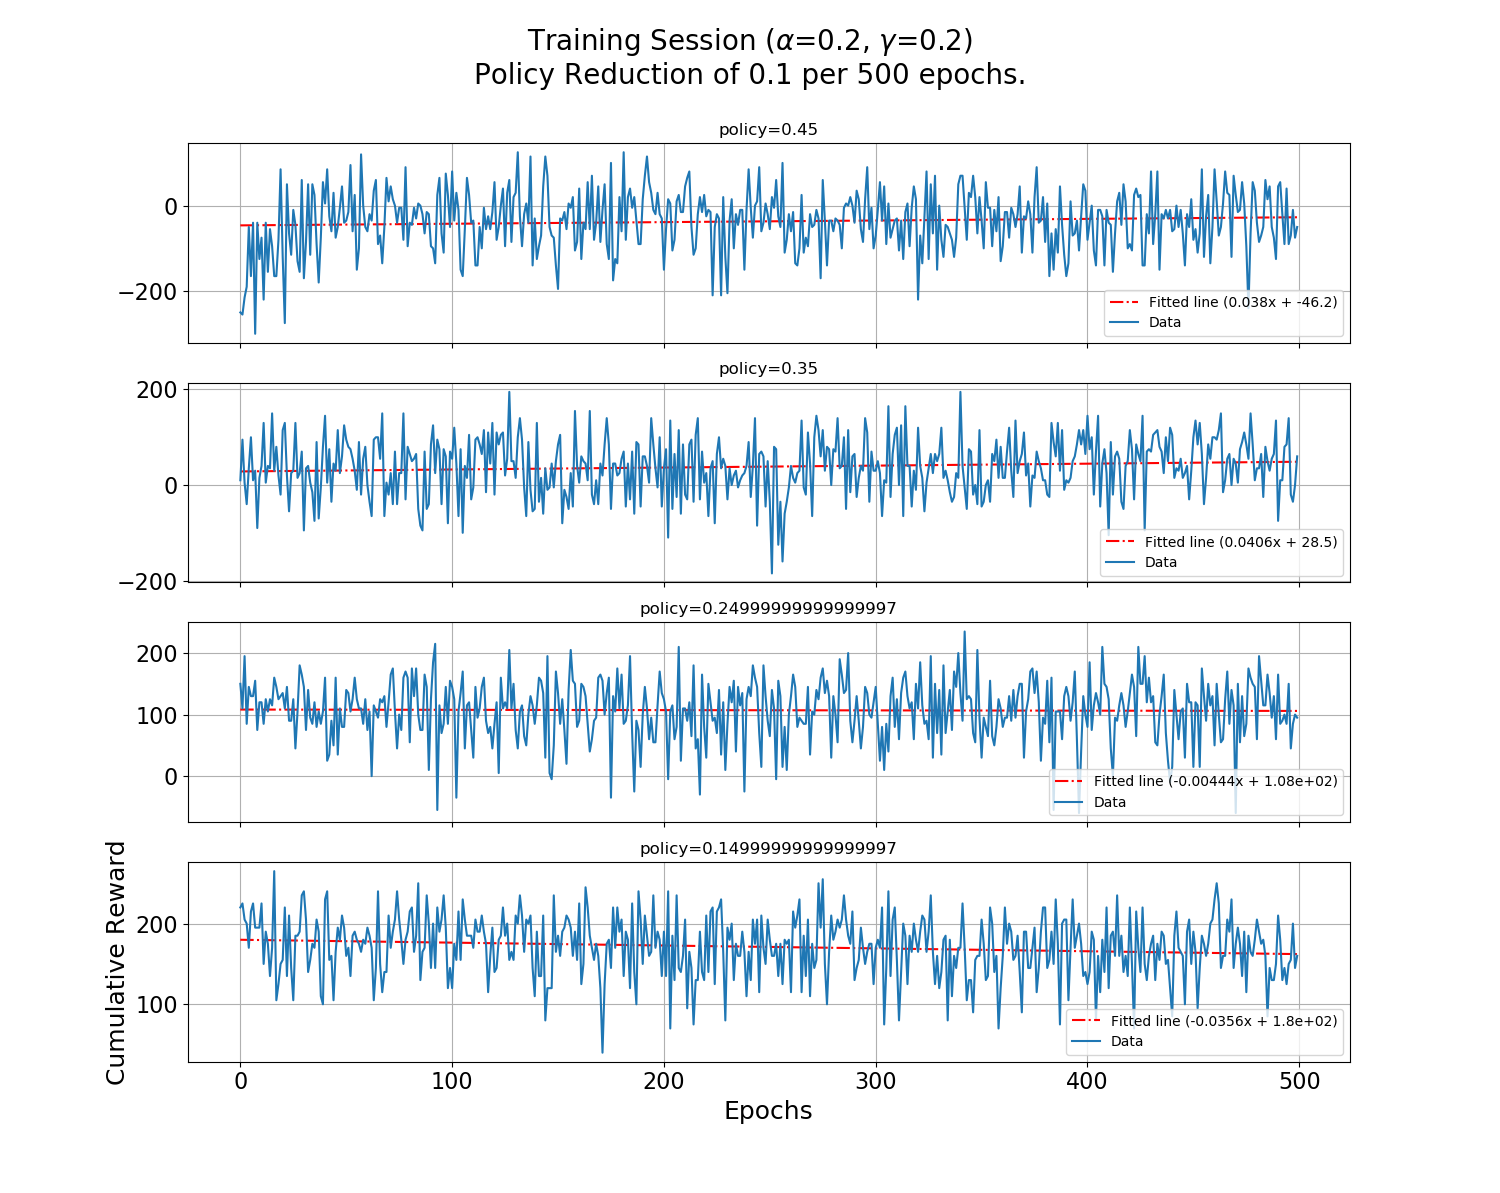
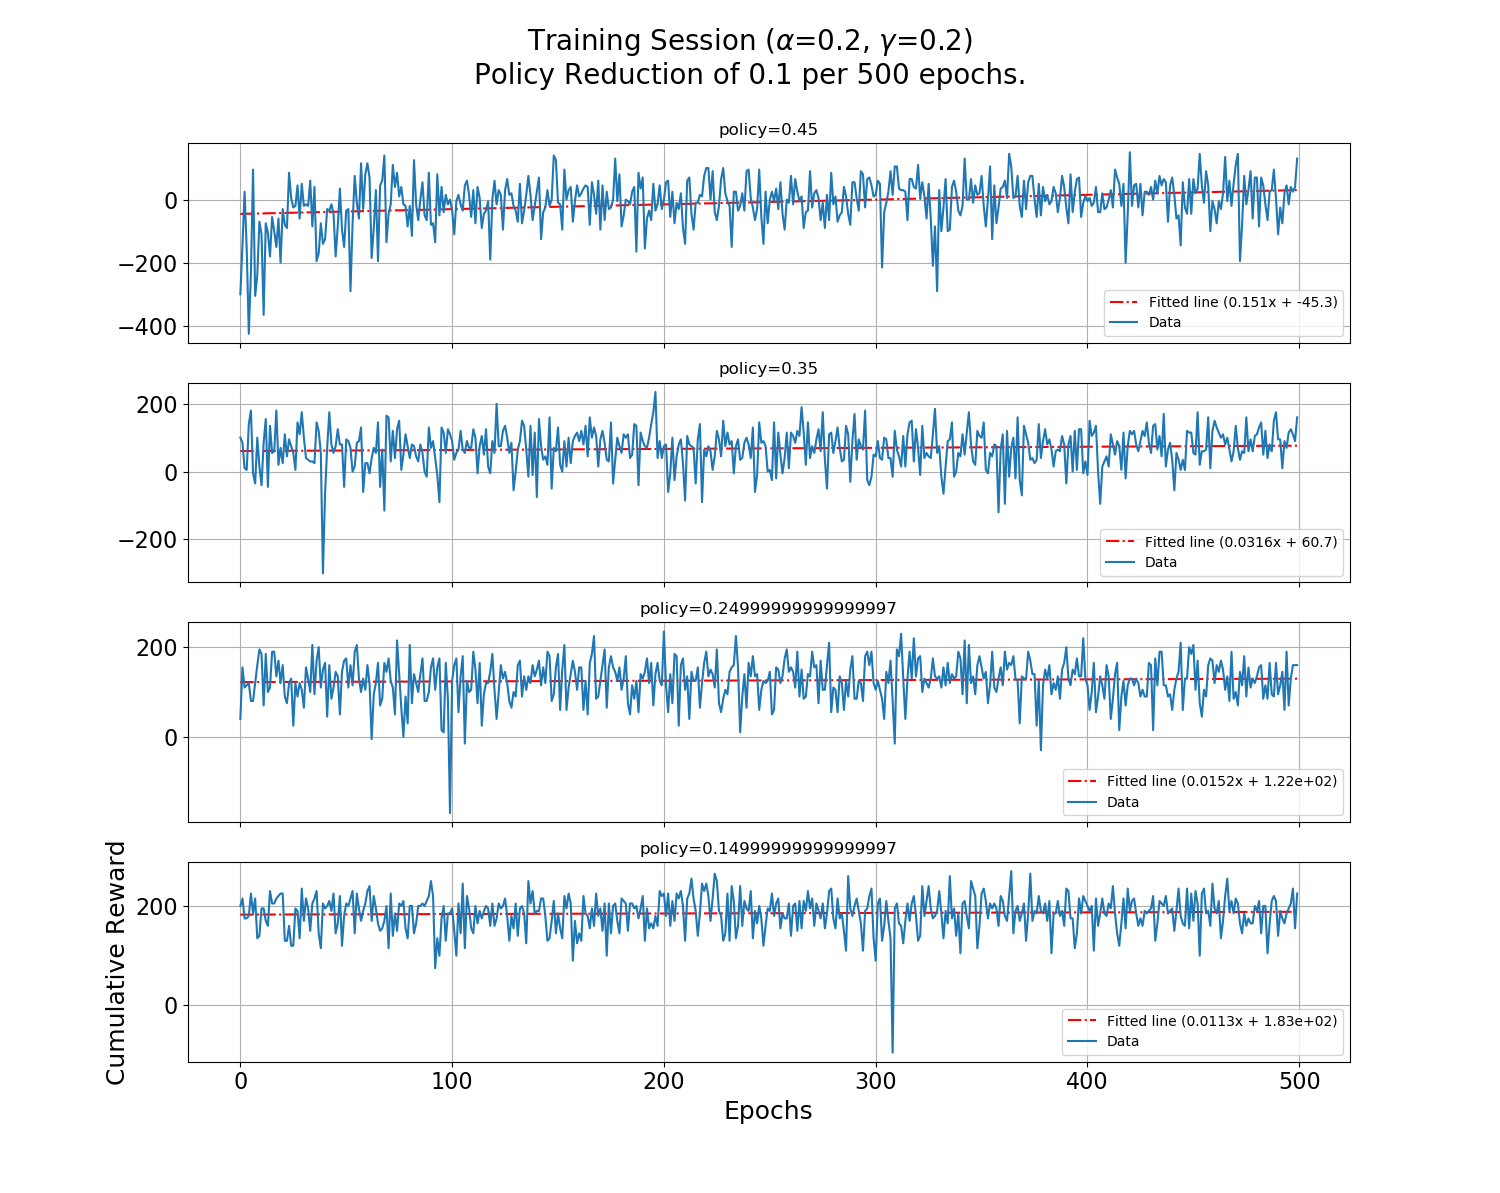
Ready for writeup
Reorganized things as the deadline for writeup approaches. Will focus on tracker game, Q and doubleQ.

diff --git a/Simple_Game/double_agentQ.py b/Simple_Game/double_agentQ.py
@@ -11,7 +11,7 @@ class Agent():
     The imported_game is assumed to have similar attributes and methods to the
     gobble or tracker game.
     """
-    def __init__(self, Q = {}, policy = 0.25, lr = 0.5, discount = 0.2):
+    def __init__(self, Q = [{},{}], policy = 0.25, lr = 0.5, discount = 0.2):
         """
         Initializes game and Q-learning attributes.
         """
@@ -30,11 +30,14 @@ class Agent():
         current Q-learning policy.
         """
         actions = self.game.get_actions()
-        if self.game.player_pos not in self.Q:
-            self.Q[self.game.player_pos] = dict.fromkeys(actions,0)
+        if self.game.player_pos not in self.Q[0]:
+            self.Q[0][self.game.player_pos] = dict.fromkeys(actions,0)
+        if self.game.player_pos not in self.Q[1]:
+            self.Q[1][self.game.player_pos] = dict.fromkeys(actions,0)
 
-        max_Q = max(self.Q[self.game.player_pos].items(), key=lambda x:x[1])
-        max_actions = [i[0] for i in self.Q[self.game.player_pos].items() if i[1]==max_Q[1]]
+        avgQ = { k : (self.Q[0][self.game.player_pos][k] + self.Q[1][self.game.player_pos][k])/2 for k in self.Q[0][self.game.player_pos].keys() }
+        max_Q = max(avgQ.items(), key=lambda x:x[1])
+        max_actions = [i[0] for i in avgQ.items() if i[1]==max_Q[1]]
         #other_actions = [i[0] for i in self.Q[self.game.player_pos].items() if i[1]!=max_Q[1]]
 
         r = random.random()
@@ -70,37 +73,34 @@ class Agent():
             self.reward += R
         return R
 
-    def learn(self, old_pos, R, choice):
+    def double_learn(self, old_pos, R, choice):
+        """
+        Uses the double Q-learning formula to update the Q-tables for the last
+        state and action combination. Expects as input the reward returned
+        from the agent's get_reward() method.
+        """
+        if random.random() < 0.5:
+            self.updateQ(0, old_pos, R, choice)
+        else:
+            self.updateQ(1, old_pos, R, choice)
+
+    def updateQ(self, idx, old_pos, R, choice):
         """
         Uses the Q-learning formula to update the Q-table for the last state
         and action combination. Expects as input the reward returned from the
         agent's get_reward() method.
         """
-        if self.game.player_pos in self.Q:
-            self.Q[old_pos][choice] = (1-self.lr)*self.Q[old_pos][choice] + self.lr*R + self.discount*max(self.Q[self.game.player_pos].items(), key=lambda x:x[1])[1]
+        other_idx = (idx + 1) % 2
+        if self.game.player_pos in self.Q[idx]:
+            self.Q[idx][old_pos][choice] = ( (1-self.lr)*self.Q[idx][old_pos][choice] + self.lr*(R
+                                            + self.discount*max(self.Q[other_idx][self.game.player_pos].items(), key=lambda x:x[1])[1]) )
         else:
-            self.Q[old_pos][choice] = (1-self.lr)*self.Q[old_pos][choice] + self.lr*R
+            self.Q[idx][old_pos][choice] = (1-self.lr)*self.Q[idx][old_pos][choice] + self.lr*R
 
-        normalizer = sum(self.Q[old_pos].values())
+        normalizer = sum(self.Q[idx][old_pos].values())
         if normalizer > 1:
-            for key in self.Q[old_pos]:
-                self.Q[old_pos][key] = self.Q[old_pos][key]/normalizer
-
-    def learn(self, old_pos, R, choice):
-        """
-        Uses the Q-learning formula to update the Q-table for the last state
-        and action combination. Expects as input the reward returned from the
-        agent's get_reward() method.
-        """
-        if self.game.player_pos in self.Q:
-            self.Q[old_pos][choice] = (1-self.lr)*self.Q[old_pos][choice] + self.lr*(R + self.discount*max(self.Q[self.game.player_pos].items(), key=lambda x:x[1])[1])
-        else:
-            self.Q[old_pos][choice] = (1-self.lr)*self.Q[old_pos][choice] + self.lr*R
-
-        normalizer = sum(self.Q[old_pos].values())
-        if normalizer > 1:
-            for key in self.Q[old_pos]:
-                self.Q[old_pos][key] = self.Q[old_pos][key]/normalizer
+            for key in self.Q[idx][old_pos]:
+                self.Q[idx][old_pos][key] = self.Q[idx][old_pos][key]/normalizer
 
     def play(self,epochs):
         """
@@ -117,7 +117,7 @@ class Agent():
                 choice = self.get_action()
                 old_pos, old_score, end = self.evolve(choice)
                 R = self.get_reward(old_score)
-                self.learn(old_pos, R, choice)
+                self.double_learn(old_pos, R, choice)
             scores.append(self.game.score)
             self.reward = 0
         return scores
@@ -139,7 +139,7 @@ class Agent():
             choice = self.get_action()
             old_pos, old_score, end = self.evolve(choice)
             R = self.get_reward(old_score)
-            self.learn(old_pos, R, choice)
+            self.double_learn(old_pos, R, choice)
         R = self.reward
         self.reward = 0
         return R

diff --git a/Explorer/explorer.py b/Explorer/explorer.py
@@ -1,0 +1,109 @@
+"""
+This module creates a class for a game called Explorer. The objective is
+to reach the end of each level (pngs stored separately).
+"""
+
+import matplotlib.pyplot as plt
+import numpy as np
+import random
+from pathlib import Path
+
+class Game():
+    """
+    A class which implements the Tracker game. Initializes with a grid_size
+    and path_radius. There is an "example" method to illustrate how the
+    game is played.
+    """
+    def __init__(self, grid_size, path_radius):
+        """
+        Initializes the player color and a game board.
+        """
+        self.levels = [plt.imread(str(img_path)) for img_path in list(Path('.').glob('level*.png'))]
+        self.player_color = (255,0,255)
+        self.object_colors = {(255,202,24):'goal',
+                              (236,28,36):'lava',
+                              (0,0,0):'wall'}
+        self.board_params = []
+        self.start_game()
+
+    def start_game(self):
+        """
+        Resets the board and player.
+        """
+        self.board = self.levels[0]
+        self.player_pos = _get_start()
+        self.score = 0
+        self.time = 0
+
+    def show_board(self):
+        """
+        Throws the current board to the active plot window.
+        """
+        plt.imshow(self.board)
+        plt.show(block=False)
+
+    def update_board(self, new_pos):
+        """
+        Performs the board update using a desired action (in the form of a
+        destination square).
+        """
+        self.time += 1
+        self.board[new_pos] = self.player_color
+        self.player_pos = new_pos
+        self.update_score()
+
+
+    def update_score(self):
+        """
+        Allocates a reward to the player based on the result of the most
+        recent move.
+        """
+        ####################################
+        self.score += reward
+
+    def get_actions(self):
+        """
+        Returns available moves using the current board configuration.
+        """
+        x,y = self.player_pos
+        actions = [(x+1,y), (x+1,y+1), (x,y+1),
+                   (x-1,y), (x-1,y-1), (x,y-1),
+                   (x+1,y-1), (x-1,y+1)]
+        valid = []
+        for a in actions:
+            if (a[0] > self.board_params[0]-1 or a[1] > self.board_params[0]-1 or
+                a[0] < 0 or a[1] < 0):
+                pass
+            else:
+                valid.append(a)
+        return valid
+
+    def check_end(self):
+        """
+        Assesses whether all white tiles have been removed.
+        """
+        if self.time < 50:
+            return False
+        else:
+            return True
+
+    def example(self):
+        """
+        Illustrates how to play the game.
+        """
+        end = False
+        while not end:
+            plt.pause(0.25)
+            self.update_board(random.choice(self.get_actions()))
+            end = self.check_end()
+
+    def _get_start(self):
+        """
+        Identify the square in a loaded map which identifies the
+        player's start location.
+        """
+        s = self.board.shape
+        for i in range(s[0]):
+            for j in range(s[1]):
+                if (levels[0][i,j,:] == np.array([255,0,255])).all():
+                    self.player_pos = (i,j)

diff --git a/Explorer/agentQ2.py b/Explorer/agentQ2.py
@@ -1,4 +1,4 @@
-import tracker as imported_game
+import explorer as imported_game
 import random
 import matplotlib.pyplot as plt
 from tqdm import tqdm
@@ -9,7 +9,7 @@ class Agent():
     creates a local instance of the imported game, sets defaults for the
     Q-learning algorithm, and defines methods which act on the game instance.
     The imported_game is assumed to have similar attributes and methods to the
-    gobble or tracker game.
+    explorer game.
     """
     def __init__(self, Q = {}, policy = 0.25, lr = 0.5, discount = 0.2):
         """
@@ -35,13 +35,13 @@ class Agent():
 
         max_Q = max(self.Q[self.game.player_pos].items(), key=lambda x:x[1])
         max_actions = [i[0] for i in self.Q[self.game.player_pos].items() if i[1]==max_Q[1]]
-        #other_actions = [i[0] for i in self.Q[self.game.player_pos].items() if i[1]!=max_Q[1]]
+        other_actions = [i[0] for i in self.Q[self.game.player_pos].items() if i[1]!=max_Q[1]]
 
         r = random.random()
-        if r > self.policy:  # choose optimally
+        if r > self.policy or other_actions==[]:  # choose optimally
             choice = random.choice(max_actions)
         else:
-            choice = random.choice(actions)
+            choice = random.choice(other_actions)
 
         return choice
 
@@ -78,22 +78,6 @@ class Agent():
         """
         if self.game.player_pos in self.Q:
             self.Q[old_pos][choice] = (1-self.lr)*self.Q[old_pos][choice] + self.lr*R + self.discount*max(self.Q[self.game.player_pos].items(), key=lambda x:x[1])[1]
-        else:
-            self.Q[old_pos][choice] = (1-self.lr)*self.Q[old_pos][choice] + self.lr*R
-
-        normalizer = sum(self.Q[old_pos].values())
-        if normalizer > 1:
-            for key in self.Q[old_pos]:
-                self.Q[old_pos][key] = self.Q[old_pos][key]/normalizer
-
-    def learn(self, old_pos, R, choice):
-        """
-        Uses the Q-learning formula to update the Q-table for the last state
-        and action combination. Expects as input the reward returned from the
-        agent's get_reward() method.
-        """
-        if self.game.player_pos in self.Q:
-            self.Q[old_pos][choice] = (1-self.lr)*self.Q[old_pos][choice] + self.lr*(R + self.discount*max(self.Q[self.game.player_pos].items(), key=lambda x:x[1])[1])
         else:
             self.Q[old_pos][choice] = (1-self.lr)*self.Q[old_pos][choice] + self.lr*R
 

diff --git a/Explorer/training.py b/Explorer/training.py
@@ -3,12 +3,12 @@ A script for implementing Q-learning with agentQ.py and plotting the results
 of decreasing policy values over time.
 """
 
-import agentQ as Q00
+import agentQ
 import matplotlib.pyplot as plt
 import numpy as np
 import time
 
-agent = Q00.Agent(policy = 0.45, lr = 0.2, discount = 0.2)
+agent = agentQ.Agent(policy = 0.45, lr = 0.2, discount = 0.2)
 print("Created Agent")
 y = []
 session_epochs = 500
